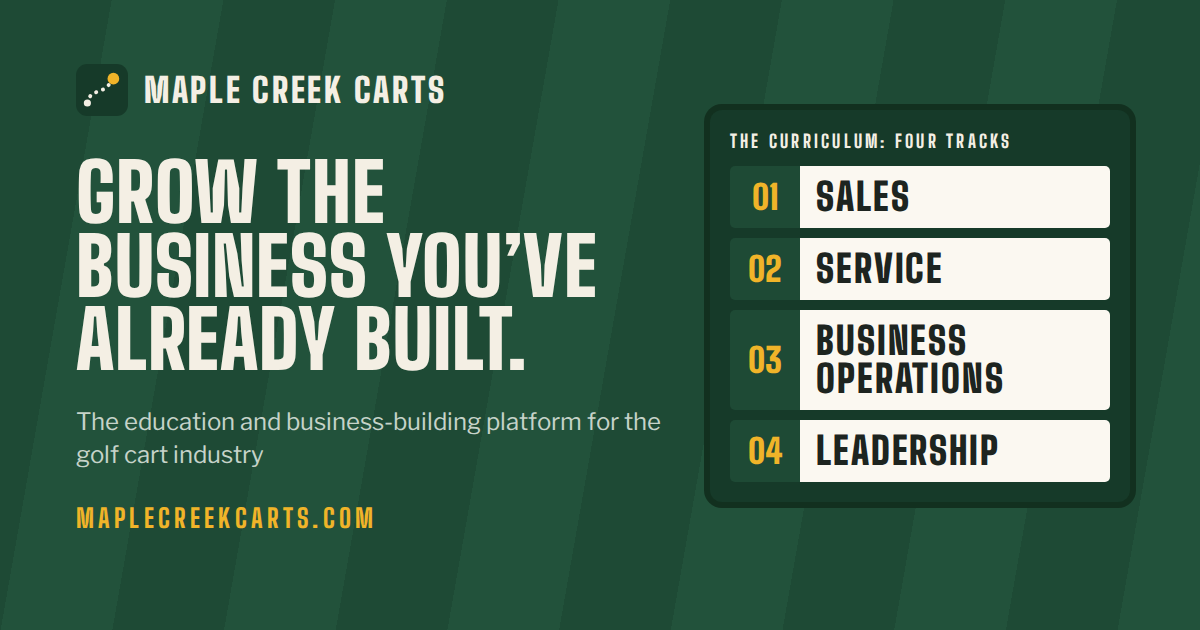
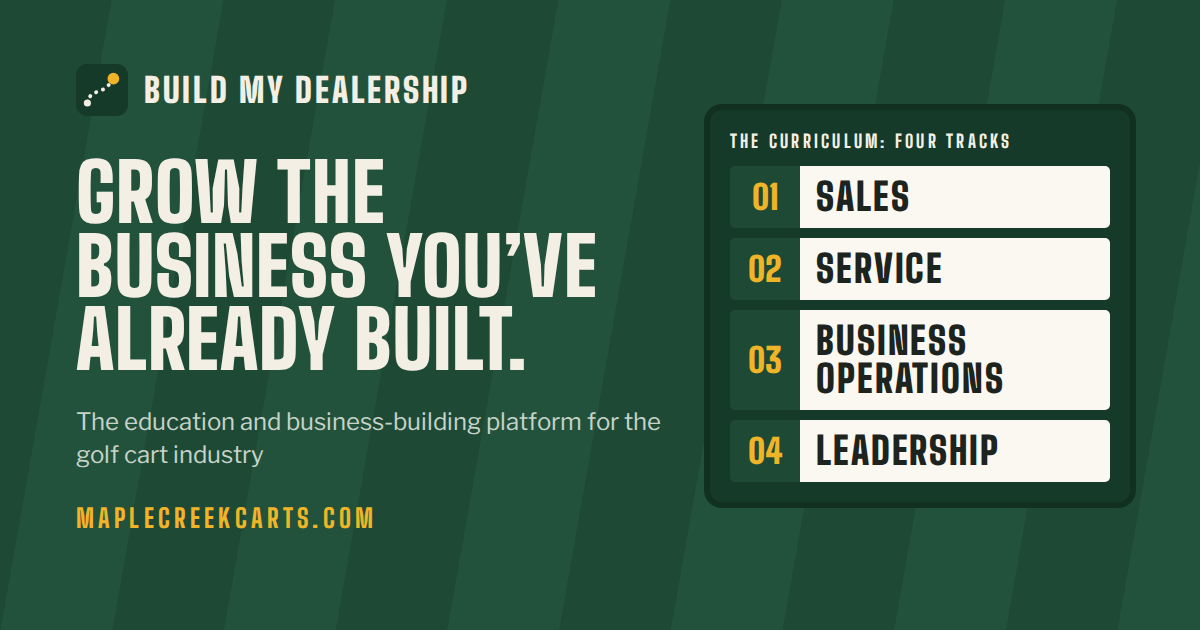
Rename the site from Maple Creek Carts to Build My Dealership
Every on-site use of the name, the link preview image, structured data, and
llms.txt now read Build My Dealership. The domain stays maplecreekcarts.com
until the move to buildmydealership.golf is planned.

Claude-Session: https://claude.ai/code/session_01Q1AvU2G55mk2CuYDKEf9HX

Changed region(s): [[0.1233, 0.1206, 0.4008, 0.181]]

diff --git a/src/assets/site.css b/src/assets/site.css
@@ -1,4 +1,4 @@
-/* Maple Creek Carts. A sibling of Maple Creek Advisors: the same warm paper and evergreen family, moved out
+/* Build My Dealership. A sibling of Maple Creek Advisors: the same warm paper and evergreen family, moved out
    onto the course. Type is the voice: Big Shoulders Display, a condensed face in the spirit of scoreboards and
    dealer signage, over Libre Franklin, a classic American gothic for reading. Fairway greens, sand neutrals,
    and one confident accent: pin-flag yellow. Motifs: mown stripes on dark bands and a leaderboard panel. */

diff --git a/LAUNCH_CHECKLIST.md b/LAUNCH_CHECKLIST.md
@@ -28,12 +28,15 @@ Everything that still needs a decision or input from Josh or Matt. Each item map
 - [ ] **Search indexing.** Currently off. Set `allowIndexing: true` when you approve launch.
 - [ ] **Golf car industry experience.** None is claimed. Add real experience in plain sentences, or leave it blank. `founders[].industryExperience`.
 - [ ] **Areas served.** No claim is made. For example `['United States']`, or a list of states. `location.areasServed`.
-- [ ] **Entity and trade name.** The copyright line and structured data now name Maple Creek Advisors as the company behind Maple Creek Carts. Confirm once the Maple Creek Advisors entity is formed, and register Maple Creek Carts as its trade name. `legalName`, `parent`.
+- [ ] **Entity and trade name.** The copyright line and structured data now name Maple Creek Advisors as the company behind Maple Creek Carts. Confirm once the Maple Creek Advisors entity is formed, and register Build My Dealership as its trade name. `legalName`, `parent`.
 - [ ] **Public profiles for structured data.** LinkedIn or similar, if each founder wants them linked. `profiles`.
 - [ ] **Street address and phone.** Not published, and kept out of structured data. `location.streetAddress`, `location.phone`.
 - [ ] **Analytics.** None. Approval needed before adding any, plus a privacy page. `analytics`.
 
 ## Worth confirming
+
+- [ ] **Domain move to buildmydealership.golf.** The site still runs at maplecreekcarts.com. Plan the move together: DNS at the new registrar, the GitHub Pages custom domain, `domain` and `canonicalUrl` in `site.config.mjs`, a new link preview image, and forwarding from maplecreekcarts.com so old links keep working.
+- [ ] **Who owns "Build."** BUILD is planned as a nonprofit and Josh is filing a "Build" trademark. Settle with counsel whether, and on what terms, the for-profit Build My Dealership may use the name.
 
 - [ ] **BUILD link.** The site links to buildowners.com. Josh should confirm that is the destination he wants.
 - [ ] **The curriculum.** The site now lists 24 named modules across four tracks, plus five learning paths. Confirm each is something you will teach, or edit it. `disciplines` and `paths` in `src/content.mjs`.

diff --git a/DECISIONS.md b/DECISIONS.md
@@ -132,3 +132,11 @@ Matt shared the ASE Education Foundation and ASE Connects sites as parallel, not
 53. **Both themes are checked.** Every color is now a theme token, including translucent tones and the brand mark. `npm run check` tests all 25 contrast pairs in both themes (50 checks), and the browser test switches themes from the keyboard, follows the choice across pages, switches back, tests the `?theme=` link, and saves BUILD-theme screenshots.
 
 54. **Browser test runs on Ubuntu 24.04 (2026-10-30).** GitHub moved `ubuntu-latest` to Ubuntu 26.04, where Playwright 1.56.1 cannot install Chromium, so the deploy failed before the browser test. The check job is pinned to `ubuntu-24.04`. When upgrading Playwright to a version that supports 26.04, the pin can go back to `ubuntu-latest`.
+
+## 2026-10-30: New name, Build My Dealership
+
+55. **Maple Creek Carts is now Build My Dealership.** Josh and Matt chose the new name, and Matt bought buildmydealership.golf. Every place the old name appeared on the site now reads Build My Dealership: header and footer, page titles and descriptions, home, About, and Contact copy, the CPA firm disclosure line, the scorecard ("the Build My Dealership Standard"), the email subject, structured data, `llms.txt`, and the link preview image. The Maple Creek Advisors endorsement is unchanged. Earlier entries in this file keep the old name as history.
+
+56. **The domain has not moved yet.** At Matt's direction the site keeps running at maplecreekcarts.com until the domain setup is planned. The link preview image still prints maplecreekcarts.com for the same reason.
+
+57. **Open points raised with the rename:** the name says "Dealership" while the site serves six audiences (consider leading with dealers, facility operators second); "Build" ties to Josh's BUILD nonprofit and its planned trademark, so ownership and use should be settled with counsel; two phrases read awkwardly after the straight swap ("Build My Dealership is where golf cart businesses learn to build on it" and "the Build My Dealership Standard"). None of these were changed without Matt's direction.

diff --git a/README.md b/README.md
@@ -1,6 +1,6 @@
-# Maple Creek Carts website
+# Build My Dealership website
 
-The public site for Maple Creek Carts at [maplecreekcarts.com](https://maplecreekcarts.com): education, leadership coaching, and business training for the golf car and golf cart industry, from Josh Muller and Matt LaFleur.
+The public site for Build My Dealership (formerly Maple Creek Carts) at [maplecreekcarts.com](https://maplecreekcarts.com): education, leadership coaching, and business training for the golf car and golf cart industry, from Josh Muller and Matt LaFleur.
 
 It is a plain static site. A small Node script with no dependencies turns one configuration file and one content file into HTML. There is no CMS, database, client-side framework, form, cookie, or tracking script.
 
